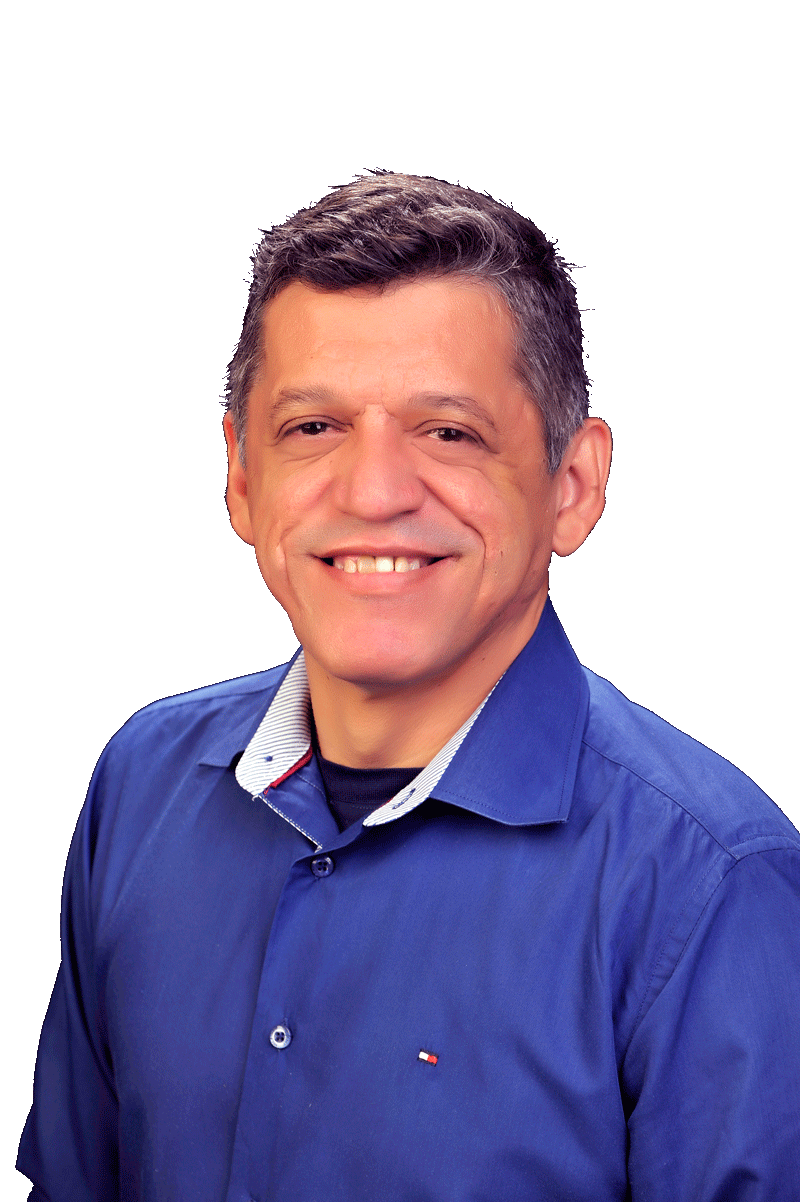
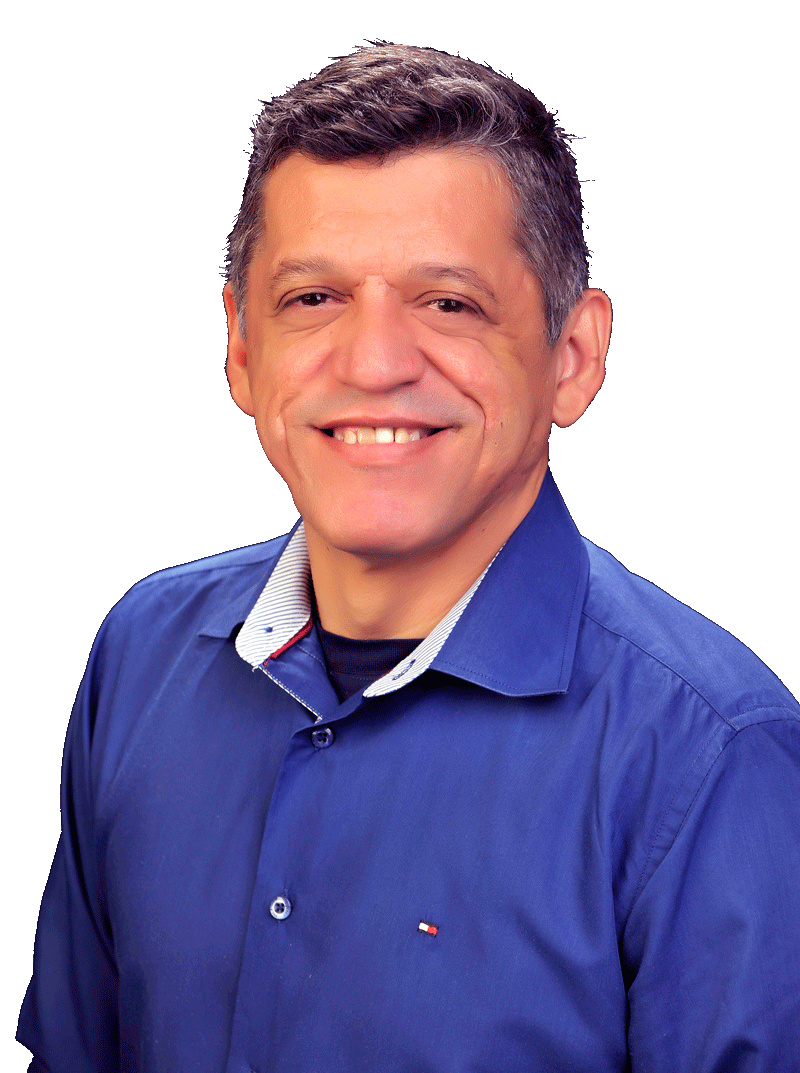
Site HR - v1
Site HR - versão 1: trabalho voluntário

diff --git a/Site-HR/Versao001/_css/index.css b/Site-HR/Versao001/_css/index.css
@@ -25,6 +25,8 @@
 :root {
   --background-image-header: url("../_img/banner1.png");
   --background-image-footer: url("../_img/fundo1.png");
+  --background-image-footer2: url("../_img/fundo2.png");
+  --background-image-section: url("../_img/fundo3.png");
   --background-color-cor1: #2C51BF;
   --background-color-cor2: #389BF2;
   --background-color-cor3: #65A603;
@@ -43,6 +45,7 @@
   --background-image-main: url(../../_imgs/_backs/img08.jpg) repeat;
   --background-color-sobre-articles: ;
   --tamanho-grid-columns-container: 5% 90% 5%;
+  --tamanho-grid-columns-main: 8% 84% 8%;
   --tamanho-grid-columns-header: 20% 60% 20%;
   --color-titulos1: #FFFAFA;
   --color-titulos2: #000000;
@@ -110,6 +113,7 @@ header {
     "logo nomehr foto"
     "logo nomehr foto";
   color: var(--color-texto-cor1);
+  box-shadow: 9px 3px 3px #0a3838;
   background-color: var(--background-color-cor3);
   background-image: var(--background-image-header);
 }
@@ -138,15 +142,18 @@ header {
       text-align: center;
     }
 
-  header #nome {
+  header #nome 
+  {
     grid-area: nomehr;
     display: flex;
     flex-direction: column;
     justify-content: center;
     align-items: center;
+    text-shadow: 0.1em 0.1em 0.2em black;
   }
 
-  header #foto_rosto {
+  header #foto_rosto 
+  {
     grid-area: foto;
     width: 100%;
     height: 28rem;
@@ -156,17 +163,35 @@ header {
     justify-content: center;
     align-items: center;
   }
+    header #foto_rosto #f_rosto 
+    {
+      width: 100%;
+      height: 28rem;
+      overflow: hidden;
+    }
     header #foto_rosto #f_rosto img 
     {
-      width: 28rem;
+      width: 24rem;
       height: auto;
-      padding: 3rem 0 0 0;
+      margin: 2rem 0 0 0;
+      padding: 0;
     }
 
-main {
+main 
+{
   grid-area: conteudo;
   width: 100%;
   height: auto;
+  margin: 1.5rem 0;
+  display: grid;
+  grid-template-columns: var(--tamanho-grid-columns-main);
+  grid-template-areas: 
+  ". secao1 ."
+  ". secao2 ."
+  ". secao3 ."
+  ". secao4 ."
+  ". secao5 ."
+  ". secao6 .";
 }
   main section {
     width: 100%;
@@ -181,6 +206,66 @@ main {
     padding: var(--padding-boxes);
     color: var(--color-texto-cor2);
     background-color: var(--background-color-cor4);
+  }
+  main #secao1 
+  {
+    grid-area: secao1;
+    width: 100%;
+    height: 20rem;
+    margin: 1rem 0;
+    background-image: var(--background-image-section);
+    background-repeat: repeat;
+    box-shadow: 9px 3px 3px #0a3838;
+  }
+  main #secao2 
+  {
+    grid-area: secao2;
+    width: 100%;
+    height: 20rem;
+    margin: 1rem 0;
+    background-image: var(--background-image-section);
+    background-repeat: repeat;
+    box-shadow: 9px 3px 3px #0a3838;
+  }
+  main #secao3 
+  {
+    grid-area: secao3;
+    width: 100%;
+    height: 20rem;
+    margin: 1rem 0;
+    background-image: var(--background-image-section);
+    background-repeat: repeat;
+    box-shadow: 9px 3px 3px #0a3838;
+  }
+  main #secao4 
+  {
+    grid-area: secao4;
+    width: 100%;
+    height: 20rem;
+    margin: 1rem 0;
+    background-image: var(--background-image-section);
+    background-repeat: repeat;
+    box-shadow: 9px 3px 3px #0a3838;
+  }
+  main #secao5 
+  {
+    grid-area: secao5;
+    width: 100%;
+    height: 20rem;
+    margin: 1rem 0;
+    background-image: var(--background-image-section);
+    background-repeat: repeat;
+    box-shadow: 9px 3px 3px #0a3838;
+  }
+  main #secao6
+  {
+    grid-area: secao6;
+    width: 100%;
+    height: 20rem;
+    margin: 1rem 0;
+    background-image: var(--background-image-section);
+    background-repeat: repeat;
+    box-shadow: 9px 3px 3px #0a3838;
   }
 
 
@@ -209,7 +294,8 @@ footer {
     padding: var(--padding-boxes);
     font-size:var(--font-size-texto);
     color: var(--color-texto-cor1);
-    background-color: var(--background-color-cor2);
+    background-image: var(--background-image-footer2);
+    background-repeat: repeat;
   }
     #rodape1 #prova_valor {
       padding: var(--padding-itens);
@@ -236,7 +322,6 @@ footer {
     color: var(--color-texto-cor1);
     background-image: var(--background-image-footer);
     background-repeat: repeat;
-/*    background-color: var(--background-color-cor3); */
   }
     footer #rodape2 a {
       color: var(--color-texto-cor1);

diff --git a/Site-HR/Versao001/index.html b/Site-HR/Versao001/index.html
@@ -31,7 +31,7 @@
 
         <div id="nome">
           <h1>Harrison Ribeiro</h1>
-          <h2>Temos de nos tornar na mudança que queremos!</h2>
+          <h2>Precisamos ser a mudança que queremos!</h2>
           <p>25.000</p>
         </div>
 
